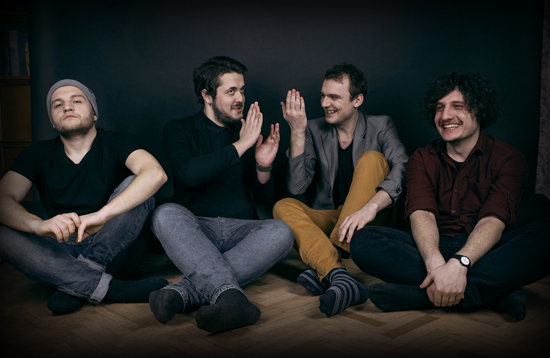
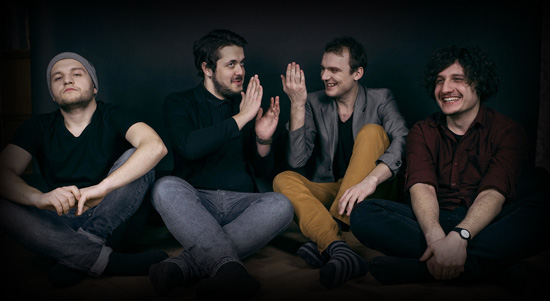
correct block About, in all blocks - size, change photo group

diff --git a/index.html b/index.html
@@ -63,22 +63,21 @@
         </div>
     </nav>
 
-    <header class="intro">
-        <div class="container">
-            <div class="row">
-                <ul class="social-i list-inline">
-                    <li><a href="https://www.facebook.com/ladyjunkmusic" target="_blank" class="btn btn-social" role="button"><i class="fa fa-facebook fa-2x"></i></a></li>
-                    <li><a href="https://vk.com/ladyjunk" target="_blank" class="btn btn-social" role="button"><i class="fa fa-vk fa-2x"></i></a></li>
-                    <li><a href="https://www.instagram.com/ladyjunk_band/" target="_blank" class="btn btn-social" role="button"><i class="fa fa-instagram fa-2x"></i></a></li>
-                    <li><a href="https://soundcloud.com/lady_junk" target="_blank" class="btn btn-social" role="button"><i class="fa fa-soundcloud fa-2x"></i></a></li>
-                    <li><a href="https://www.youtube.com/watch?v=5xBfAVpIXvw" target="_blank" class="btn btn-social" role="button"><i class="fa fa-youtube fa-2x"></i></a></li>
-                </ul>
-            </div>
+
+    <header class="container intro">
+        <div class="row">
+            <ul class="social-i list-inline">
+                <li><a href="https://www.facebook.com/ladyjunkmusic" target="_blank" class="btn btn-social" role="button"><i class="fa fa-facebook fa-2x"></i></a></li>
+                <li><a href="https://vk.com/ladyjunk" target="_blank" class="btn btn-social" role="button"><i class="fa fa-vk fa-2x"></i></a></li>
+                <li><a href="https://www.instagram.com/ladyjunk_band/" target="_blank" class="btn btn-social" role="button"><i class="fa fa-instagram fa-2x"></i></a></li>
+                <li><a href="https://soundcloud.com/lady_junk" target="_blank" class="btn btn-social" role="button"><i class="fa fa-soundcloud fa-2x"></i></a></li>
+                <li><a href="https://www.youtube.com/watch?v=5xBfAVpIXvw" target="_blank" class="btn btn-social" role="button"><i class="fa fa-youtube fa-2x"></i></a></li>
+            </ul>
         </div>
     </header>
 
-    <section id="concert" class="container content-section backround-lines">
-        <div class="row text-center wow zoomIn">
+    <section id="concert" class="container content-section">
+        <div class="row text-center wow zoomIn backround-lines">
             <div class="col-md-offset-4 col-md-4 col-md-offset-4">
                 <h2>Концерти</h2>
                 <?php
@@ -100,33 +99,30 @@
     </section>
 
     <section id="about" class="container">
-        <div class="row">
-            <div class="col-md-8 col-sm-6 block-article">
-               <img src="img/photo-group.jpg" alt="photo-group" class="img-describe">
-            </div>
-            <div class="col-md-4 col-sm-6 block-article">
+         <div class="row">
+            <div class="col-lg-12 col-md-12 col-sm-12 col-xs-12">
                 <h2>Про гурт</h2>
-                <p>Група «Леді Джанк» заснована в Києві в 2014 році і складається з чотирьох осіб: <br>
-                <br>
+                <img src="img/photo-group.jpg" alt="photo-group" class="img-describe">
+                <p>Група «Леді Джанк» заснована в Києві в 2014 році <br>і складається з чотирьох осіб: <br><br>
                 Сергій Гусак - вокал<br>
                 Ілля Случанко - гітара <br>
                 Михайло Бурлаков - бас <br>
-                Сергій Гаврилов - барабани <br>
-                </p>
+                Сергій Гаврилов - барабани <br></p>
             </div>
         </div>
         <div class="row">
-            <div class="col-md-6 col-sm-6 block-article">
+            <div class="col-lg-6 col-md-6 col-sm-12 col-xs-12">
                 <p class="article wow fadeInLeft">Під жіночою назвою ховається стовідсотково чоловічий колектив, чий музичний стиль побудованно на вмінні грати на контрасті: від потайливих хлопців не чекаєш відвертих текстів, та до того ж професія лікаря вимагає від вокаліста стриманості і відстороненості, в той час як музика - щирої емоційності.<br>
 Так, між жіночим і чоловічим, холодом і пристрастю, позитивною «леді» і негативною «джанк» виникає потужний електричний заряд. Пронизливі гітарні рифи, вокал, що чіпляє, та чуттєві українські тексти гарантують слухачеві подвійну дозу адреналіну. <br>Ці хлопці співають про те, про що чоловіки соромляться говорити. Яскравий голос, прониклива лірика і владна привабливість музикантів змушують тремтіти сотні жіночих колін. Так, це "розв'язний неосоул".
                 </p>
             </div>
-            <div class="col-md-6 col-sm-6 block-article">
+            <div class="col-lg-6 col-md-6 col-sm-12 col-xs-12">
                 <p class="article wow fadeInRight">Група встигла показати себе на Фестивалі вуличної музики, Арт-пікніку Слави Фролової (2014), Kyiv Open Air 2015, Gogolfest 2014 та 2015, Old Car Fest, конкурсі Rock the Nation, Global Battle Of the Bands 2016, в ефірі Радіо Аристократи та багатьох київських муз.майданчиках.<br>
 У 2015 році у групи вийшло два ЕР: «Буде, що сказати» і «# 2», на підході третій альбом. 20 лютого 2016 відбулась презентація дебютного кліпу на пісню "Буде що сказати".
                 </p>
             </div>
         </div>
+
         <div class="jcarousel-wrapper">
             <div class="jcarousel">
                 <ul>
@@ -149,8 +145,8 @@
         </div>
     </section>
 
-    <section id="music" class="container content-section backround-lines">
-        <div class="row text-center wow zoomIn">
+    <section id="music" class="container content-section">
+        <div class="row text-center wow zoomIn backround-lines">
             <h2>Музика</h2>
             <div class="col-md-6 col-md-offset-3">
                 <iframe class="iframe-music" src="https://w.soundcloud.com/player/?url=https%3A//api.soundcloud.com/tracks/274566987&amp;color=2971C7&amp;inverse=false&amp;auto_play=false&amp;show_user=true"></iframe>

diff --git a/css/grayscale.css b/css/grayscale.css
@@ -1,13 +1,17 @@
 body {
-    width: 100%;
+    max-width: 1600px;
     height: 100%;
     font-family: 'Lato', sans-serif;
     color: #fff;
     background-color: #000;
+    margin: 0 auto;
+}
+.container {
+    text-align: center;
 }
 .navbar-custom {
     margin-bottom: 0;
-    border-bottom: 1px solid rgba(255,255,255,.3);
+    border-bottom: none;
     text-transform: uppercase;
     background-color: #000;
 }
@@ -36,7 +40,7 @@ body {
     outline: 0;
 }
 .navbar-custom .nav li.active a {
-    background-color: rgba(255,255,255,.3);
+    background-color: #2971C7;
 }
 .navbar-custom .nav li.active a:hover {
     color: #fff;
@@ -53,13 +57,14 @@ body {
     }
     .navbar-custom.top-nav-collapse {
         padding: 0;
-        border-bottom: 1px solid rgba(255,255,255,.3);
+        border-bottom: none;
         background: #000;
         height: 5em;
     }
 }
+
 .intro {
-    width: 100%;
+    *width: 100%;
     height: auto;
     background: url(../img/intro-bg.jpg) no-repeat bottom center scroll;
     background-color: #000;
@@ -74,6 +79,7 @@ body {
         padding: 0;
     }
 }
+
 h2 {
     margin: 0 0 35px;
     font-weight: 700;
@@ -145,11 +151,13 @@ section {
     background-repeat: repeat-y;
     -webkit-background-size: cover;
     -moz-background-size: cover;
-    background-size: cover;
     -o-background-size: cover;
+    background-size: cover;
 }
 .article {
-    padding: 1.5em 1.5em;
+    padding: 1em;
+    text-indent: 1em;
+    text-align: justify;
 }
 .btn-ticket {
     border: solid 2px #2971C7;
@@ -160,10 +168,6 @@ section {
     margin: 1em;
     background-color: #2971C7;
     color: white;
-}
-.article {
-    text-indent: 1.5em;
-    text-align: justify;
 }
 .btn-social:hover {
     color: white;
@@ -182,10 +186,6 @@ section {
 .gallery img {
     padding: 1px;
     background-color: #2971C7;
-}
-.block-article {
-    float: left;
-    margin-bottom: 10px;
 }
 .video-play {
     margin: 1em;
